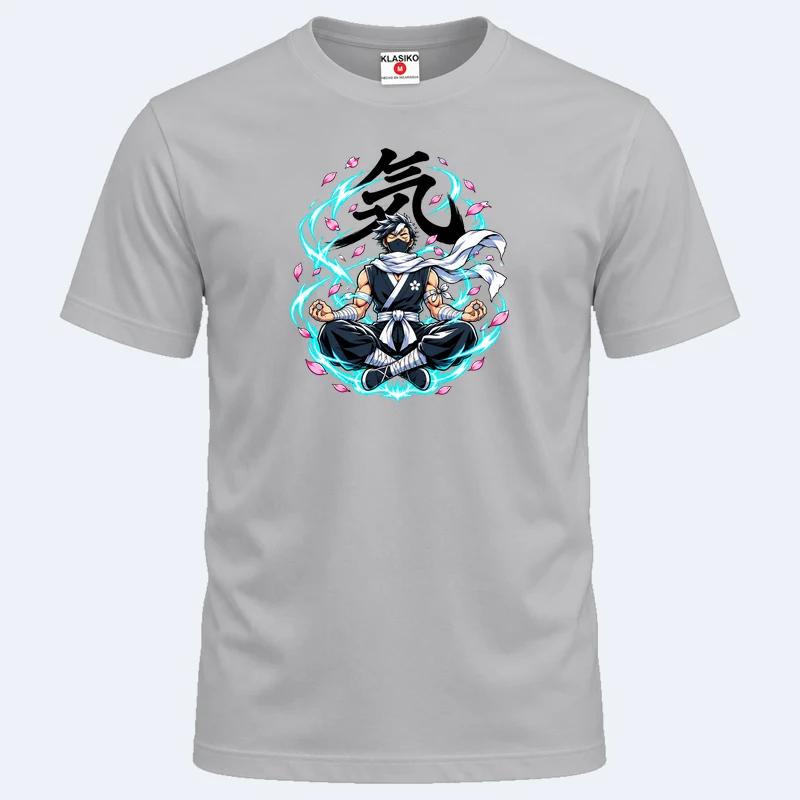
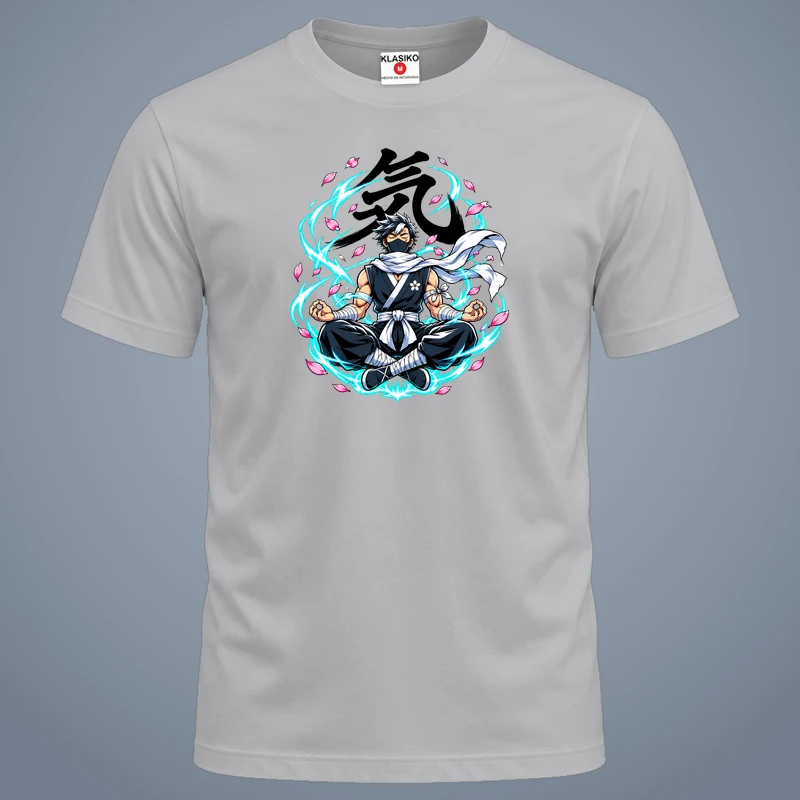
Vista en grande, tienda con talla y Cambiar color, carrusel en el Inicio; sin Galería
- verGrande(): diseños, ventana de diseños del diseñador y productos de la tienda se ven en grande con flechas
- Tienda: 16 camisas de la Galería (Supabase), talla, Cambiar color o diseño; se borraron 3 productos viejos
- Inicio: carrusel de la tienda (avanza solo, se detiene al tocarlo)
- Fotos de productos con fondo gris azulado: la camiseta blanca se distingue
- Se borra galeria.html y su enlace del menú

diff --git a/app.js b/app.js
@@ -5,6 +5,28 @@ const esc=s=>String(s??'').replace(/[&<>"']/g,c=>({'&':'&amp;','<':'&lt;','>':'&
 
 $('#menu')?.addEventListener('click',()=>$('#nav')?.classList.toggle('open')); $$('#nav a').forEach(a=>a.addEventListener('click',()=>$('#nav')?.classList.remove('open')));
 
+/* ---------- Vista en grande (diseños, galería) ----------
+   verGrande(lista, i): lista = [{src, titulo, sub, oscuro, accion:{texto, href | onclick}}] */
+let _vg=null;
+function verGrande(lista,i=0){
+  if(!_vg){_vg=document.createElement('dialog');_vg.className='vg';_vg.setAttribute('aria-label','Vista en grande');
+    _vg.innerHTML='<button type="button" class="vgX" aria-label="Cerrar">×</button><button type="button" class="vgN vgP" aria-label="Anterior">‹</button><figure><div class="vgImg"><img alt=""></div><figcaption><b></b><span></span></figcaption></figure><button type="button" class="vgN vgS" aria-label="Siguiente">›</button><div class="vgAcc"><button type="button" class="btn ghost vgFondo">◐ Cambiar fondo</button><a class="btn vgBtn"></a></div>';
+    document.body.appendChild(_vg);
+    _vg.querySelector('.vgX').onclick=()=>_vg.close();
+    _vg.addEventListener('click',e=>{if(e.target===_vg)_vg.close()});
+    _vg.querySelector('.vgFondo').onclick=()=>_vg.classList.toggle('claro');
+    _vg.querySelector('.vgP').onclick=()=>_vg._ir(-1);_vg.querySelector('.vgS').onclick=()=>_vg._ir(1);
+    _vg.addEventListener('keydown',e=>{if(e.key==='ArrowLeft')_vg._ir(-1);if(e.key==='ArrowRight')_vg._ir(1)});
+    let x0=null;_vg.addEventListener('touchstart',e=>x0=e.touches[0].clientX,{passive:true});
+    _vg.addEventListener('touchend',e=>{if(x0==null)return;const dx=e.changedTouches[0].clientX-x0;if(Math.abs(dx)>50)_vg._ir(dx<0?1:-1);x0=null})}
+  const pintar=()=>{const it=lista[i],img=_vg.querySelector('img'),a=_vg.querySelector('.vgBtn');img.src=it.src;img.alt=it.titulo||'';
+    _vg.querySelector('figcaption b').textContent=it.titulo||'';_vg.querySelector('figcaption span').textContent=it.sub||'';
+    _vg.classList.toggle('foto',!it.oscuro&&it.oscuro!==undefined);_vg.querySelector('.vgFondo').hidden=it.oscuro===false;
+    a.hidden=!it.accion;if(it.accion){a.textContent=it.accion.texto;if(it.accion.href){a.href=it.accion.href;a.onclick=null}else{a.removeAttribute('href');a.onclick=()=>{_vg.close();it.accion.onclick()}}}
+    $$('.vgN').forEach(b=>b.hidden=lista.length<2)};
+  _vg._ir=d=>{i=(i+d+lista.length)%lista.length;pintar()};
+  pintar();if(!_vg.open)_vg.showModal()}
+
 /* ---------- Supabase (REST, sin librería) ---------- */
 const sbReady=()=>CFG.supabaseUrl&&CFG.supabaseKey;
 // clave sb_publishable_ va solo en apikey; una clave anon antigua (JWT) también en Authorization
@@ -20,9 +42,27 @@ function addItem(item){const c=getCart();c.push(item);return setCart(c)}
 updateCount();
 
 /* ---------- Tienda (productos desde Supabase; si falla, quedan los del HTML) ---------- */
-document.addEventListener('click',e=>{const b=e.target.closest('.cart');if(!b)return;if(addItem({nombre:b.dataset.name,detalle:b.dataset.detail||'',qty:1,precio:+b.dataset.price}))$('#cartStatus').innerHTML=`Agregado a tu pedido. <a href="pedido.html"><u>Ver mi pedido</u></a>`});
-(async()=>{const box=$('.realProducts');if(!box)return;const rows=await sbGet('productos?select=nombre,detalle,precio,foto_url&activo=eq.true&order=orden,created_at');if(!rows?.length)return;
-  box.innerHTML=rows.map(p=>`<article><img src="${esc(p.foto_url)}" alt="${esc(p.nombre)}" loading="lazy"><h3>${esc(p.nombre)}</h3><p>${esc(p.detalle)}</p><strong>${money(p.precio)}</strong><button class="btn cart" data-name="${esc(p.nombre)}" data-detail="${esc(p.detalle)}" data-price="${+p.precio}">Agregar al carrito</button></article>`).join('')})();
+document.addEventListener('click',e=>{const b=e.target.closest('.cart');if(!b)return;const t=b.closest('article')?.querySelector('.tallaSel')?.value;
+  if(addItem({nombre:b.dataset.name,detalle:(b.dataset.detail||'')+(t?` • talla ${t}`:''),qty:1,precio:+b.dataset.price,vista:b.dataset.foto||undefined}))$('#cartStatus').innerHTML=`Agregado a tu pedido${t?` (talla ${esc(t)})`:''}. <a href="pedido.html"><u>Ver mi pedido</u></a>`});
+const TALLAS_TIENDA=['XS','S','M','L','XL','2XL','3XL'];
+const productos=sbGet('productos?select=nombre,detalle,precio,foto_url,enlace&activo=eq.true&order=orden,created_at');
+const aGrande=rows=>rows.map(p=>({src:p.foto_url,titulo:p.nombre,sub:`${p.detalle} · ${money(p.precio)}`,oscuro:false,accion:p.enlace?{texto:'Cambiar color o diseño',href:p.enlace}:{texto:'Ver en la tienda',href:'tienda.html'}}));
+(async()=>{const box=$('.realProducts');if(!box)return;const rows=await productos;if(!rows?.length){box.innerHTML='<p class="status">Pronto agregaremos productos. Mientras tanto, <a href="disena.html"><u>diseña tu camisa</u></a>.</p>';return}
+  box.innerHTML=rows.map((p,i)=>`<article><button type="button" class="zoom" data-i="${i}" aria-label="Ver ${esc(p.nombre)} en grande"><img src="${esc(p.foto_url)}" alt="${esc(p.nombre)}" loading="lazy"></button><h3>${esc(p.nombre)}</h3><p>${esc(p.detalle)}</p><strong>${money(p.precio)}</strong>
+    <label class="tallaLbl">Talla <select class="tallaSel">${TALLAS_TIENDA.map(t=>`<option${t==='M'?' selected':''}>${t}</option>`).join('')}</select></label>
+    <button class="btn cart" data-name="${esc(p.nombre)}" data-detail="${esc(p.detalle)}" data-price="${+p.precio}" data-foto="${esc(p.foto_url)}">Agregar al carrito</button>${p.enlace?`<a class="btn ghost cambiar" href="${esc(p.enlace)}">Cambiar color o diseño</a>`:''}</article>`).join('');
+  const lista=aGrande(rows);lista.forEach(it=>it.accion=it.accion.href==='tienda.html'?null:it.accion);
+  box.addEventListener('click',e=>{const z=e.target.closest('.zoom');if(z)verGrande(lista,+z.dataset.i)})})();
+/* ---------- Carrusel de la tienda en el Inicio ---------- */
+(async()=>{const box=$('#carrusel');if(!box)return;const rows=await productos;if(!rows?.length){box.closest('section').hidden=true;return}
+  const pista=box.querySelector('.pista');pista.innerHTML=rows.map((p,i)=>`<article class="slide"><button type="button" class="zoom" data-i="${i}" aria-label="Ver ${esc(p.nombre)} en grande"><img src="${esc(p.foto_url)}" alt="${esc(p.nombre)}" loading="lazy"></button><b>${esc(p.nombre)}</b><span>${esc(p.detalle.split(' • ')[0])}</span><strong>${money(p.precio)}</strong></article>`).join('');
+  const lista=aGrande(rows);pista.addEventListener('click',e=>{const z=e.target.closest('.zoom');if(z)verGrande(lista,+z.dataset.i)});
+  const paso=()=>pista.querySelector('.slide').getBoundingClientRect().width+16;
+  const mover=d=>{const fin=pista.scrollLeft+d*paso();pista.scrollTo({left:fin>pista.scrollWidth-pista.clientWidth+5?0:fin<-5?pista.scrollWidth:fin,behavior:'smooth'})};
+  box.querySelector('.cPrev').onclick=()=>mover(-1);box.querySelector('.cSig').onclick=()=>mover(1);
+  // avanza solo cada 4 s; se detiene mientras el cliente lo toca o pasa el mouse
+  let quieto=false;['pointerenter','focusin','touchstart'].forEach(ev=>box.addEventListener(ev,()=>quieto=true,{passive:true}));['pointerleave','focusout'].forEach(ev=>box.addEventListener(ev,()=>quieto=false));
+  if(!matchMedia('(prefers-reduced-motion: reduce)').matches)setInterval(()=>{if(!quieto&&!document.hidden)mover(1)},4000)})();
 
 /* ---------- Videos del proceso (portada y Nosotros) ---------- */
 function youtubeId(u){const m=String(u).match(/(?:youtu\.be\/|youtube\.com\/(?:watch\?(?:.*&)?v=|shorts\/|embed\/))([\w-]{11})/);return m?.[1]}
@@ -73,7 +113,7 @@ $('#entrega')?.addEventListener('change',e=>{$('#direccionBox').hidden=e.target.
 
 $('#pedidoForm')?.addEventListener('submit',async e=>{e.preventDefault();const f=e.target,btn=f.querySelector('button[type=submit]'),st=$('#pedidoStatus'),c=getCart();if(!c.length)return;
   btn.disabled=true;st.textContent='Enviando…';
-  try{const items=[];for(const it of c){const links=[];if(sbReady()){for(const a of archivosDe(it))links.push(`${a.lado?a.lado+': ':''}${a.codigo?`diseño de catálogo ${a.codigo}`:a.url||await uploadFile(a)}`);if(it.vista)links.push(`Vista: ${await uploadFile({nombre:'vista.jpg',data:it.vista})}`)}
+  try{const items=[];for(const it of c){const links=[];if(sbReady()){for(const a of archivosDe(it))links.push(`${a.lado?a.lado+': ':''}${a.codigo?`diseño de catálogo ${a.codigo}`:a.url||await uploadFile(a)}`);if(it.vista)links.push(`Vista: ${it.vista.startsWith('data:')?await uploadFile({nombre:'vista.jpg',data:it.vista}):new URL(it.vista,location.href).href}`)}
       items.push({nombre:it.nombre,detalle:it.detalle,cantidad:it.qty,precio_unitario:Math.round(it.precio),archivos:links})}
     const total=c.reduce((a,i)=>a+i.precio*i.qty,0),row={tipo:'pedido',nombre:field(f,'nombre'),telefono:field(f,'telefono'),correo:field(f,'correo')||null,entrega:field(f,'entrega'),direccion:field(f,'direccion')||null,notas:field(f,'notas')||null,items,total_estimado:Math.round(total)};
     await saveRecord(row);

diff --git a/index.html b/index.html
@@ -69,6 +69,20 @@ body{font-family:Inter,Arial,sans-serif}
 .perksBar div{display:flex;align-items:center;gap:14px;justify-content:center;font-weight:800;font-size:13px;text-transform:uppercase;line-height:1.3}
 .perksBar div+div{border-left:1px solid #1d3a5a}
 .perksBar svg{width:46px;height:46px;color:var(--azul2);flex:none}
+.tiendaHome{background:#081a2e;padding:44px 4% 40px}
+.tHead{max-width:1240px;margin:0 auto 18px;display:flex;justify-content:space-between;align-items:end;gap:14px;flex-wrap:wrap}
+.tHead h2{font-size:clamp(34px,4vw,52px);margin:4px 0 0;color:#fff}
+.carrusel{position:relative;max-width:1240px;margin:auto}
+.pista{display:flex;gap:16px;overflow-x:auto;scroll-snap-type:x mandatory;scroll-behavior:smooth;padding:4px 2px 12px;scrollbar-width:none}
+.pista::-webkit-scrollbar{display:none}
+.slide{flex:0 0 calc((100% - 48px)/4);scroll-snap-align:start;background:#0b2037;border:1px solid #1d4d77;border-radius:16px;padding:10px 10px 14px;display:flex;flex-direction:column;gap:4px}
+.slide .zoom,.realProducts .zoom{all:unset;cursor:zoom-in;display:block;border-radius:12px;overflow:hidden}
+.slide img{width:100%;aspect-ratio:1;object-fit:cover;background:#eef2f7;transition:transform .3s}.slide .zoom:hover img{transform:scale(1.04)}
+.slide b{font-size:15px;margin-top:6px}.slide span{font-size:12px;color:#9fc0da}.slide strong{color:#37aefe;font-size:18px}
+.cNav{position:absolute;top:38%;z-index:2;width:44px;height:44px;border-radius:50%;border:0;background:#1f78ff;color:#fff;font-size:28px;line-height:1;cursor:pointer;box-shadow:0 6px 18px #0008}
+.cPrev{left:-14px}.cSig{right:-14px}
+@media(max-width:900px){.slide{flex-basis:calc((100% - 16px)/2)}}
+@media(max-width:520px){.slide{flex-basis:78%}.cNav{display:none}}
 @media(max-width:1100px){.quote{display:none}.svcGrid,.vids{grid-template-columns:repeat(2,1fr)}.banners{grid-template-columns:1fr}.perksBar{grid-template-columns:repeat(3,1fr);row-gap:22px}.perksBar div:nth-child(4){border-left:0}}
 @media(max-width:900px){.hero2{grid-template-columns:1fr;padding:34px 5% 0;min-height:0}.hero2 .txt{padding-bottom:0}.hero2 .pic{margin:0 -6%}.hero2 .pic img{-webkit-mask-image:linear-gradient(180deg,transparent 0,#000 18%);mask-image:linear-gradient(180deg,transparent 0,#000 18%);height:auto}}
 @media(max-width:600px){.svcGrid{gap:10px}.svcCard .body{grid-template-columns:1fr;padding:12px}.ico2{display:none}.svcCard h3{font-size:14px}.svcCard p{font-size:12px}.svcCard .more{grid-column:1;padding:7px 14px}.ban{grid-template-columns:1fr;padding:28px 20px 0}.ban img{height:240px;object-fit:contain}.vids{gap:10px}.vid span{font-size:12px;padding:20px 10px 8px}.perksBar{grid-template-columns:1fr 1fr}.perksBar div{justify-content:flex-start;border-left:0!important}.perksBar svg{width:36px;height:36px}.hero2 .acts .btnA{flex:1;justify-content:center;padding:13px 12px;font-size:14px;white-space:nowrap}}
@@ -78,7 +92,7 @@ body{font-family:Inter,Arial,sans-serif}
 <header>
   <a class="brand" href="index.html"><span>IM</span>PRESA<small>PRINT & TEXTILE SOLUTIONS</small></a>
   <button id="menu" aria-label="Abrir menú">☰</button>
-  <nav id="nav"><a href="index.html">Inicio</a><a href="servicios.html">Servicios</a><a href="disena.html">Diseña tu camisa</a><a href="disenos.html">Diseños</a><a href="catalogo.html">Catálogo</a><a href="tienda.html">Tienda</a><a href="galeria.html">Galería</a><a href="nosotros.html">Nosotros</a><a href="contacto.html">Contacto</a><a href="puntos.html">Puntos de entrega</a><a href="pedido.html">Mi pedido <b id="cartCount"></b></a></nav>
+  <nav id="nav"><a href="index.html">Inicio</a><a href="servicios.html">Servicios</a><a href="disena.html">Diseña tu camisa</a><a href="disenos.html">Diseños</a><a href="catalogo.html">Catálogo</a><a href="tienda.html">Tienda</a><a href="nosotros.html">Nosotros</a><a href="contacto.html">Contacto</a><a href="puntos.html">Puntos de entrega</a><a href="pedido.html">Mi pedido <b id="cartCount"></b></a></nav>
   <a class="btnA quote" href="contacto.html">Solicitar cotización</a>
 </header>
 
@@ -94,6 +108,10 @@ body{font-family:Inter,Arial,sans-serif}
     </div>
   </div>
   <figure class="pic"><img src="assets/portada/hero.webp" alt="Camisetas, polo, gorra y termo con el logo de IMPRESA" width="1278" height="716" fetchpriority="high"></figure>
+</section>
+
+<section class="tiendaHome" aria-labelledby="t-tienda"><div class="tHead"><div><p class="eyebrow">TIENDA IMPRESA</p><h2 id="t-tienda" class="disp">Listas para llevar</h2></div><a class="btnA" href="tienda.html">Ver toda la tienda →</a></div>
+  <div id="carrusel" class="carrusel" role="region" aria-roledescription="carrusel" aria-label="Productos de la tienda"><button type="button" class="cNav cPrev" aria-label="Anterior">‹</button><div class="pista" tabindex="0"></div><button type="button" class="cNav cSig" aria-label="Siguiente">›</button></div>
 </section>
 
 <section class="svcWrap" aria-label="Servicios">

diff --git a/disenos.html b/disenos.html
@@ -15,7 +15,7 @@
 .cat h2{font-family:'Barlow Condensed',Impact,sans-serif;font-style:italic;font-weight:900;text-transform:uppercase;font-size:clamp(32px,4vw,48px);margin:0 0 14px;color:#0a1b30;letter-spacing:0;border-bottom:3px solid #1f78ff;padding-bottom:8px}
 .grid{display:grid;grid-template-columns:repeat(auto-fill,minmax(200px,1fr));gap:16px}
 .d{background:#fff;border-radius:14px;padding:10px 10px 14px;display:flex;flex-direction:column;gap:4px;box-shadow:0 8px 22px #0614261a}
-.d .pv{aspect-ratio:1;border-radius:10px;display:grid;place-items:center;padding:12px;background:#151515}
+.d .pv{cursor:zoom-in;aspect-ratio:1;border-radius:10px;display:grid;place-items:center;padding:12px;background:#151515}
 .d .pv img{max-width:100%;max-height:100%;object-fit:contain}
 .d.claro .pv{background:repeating-conic-gradient(#f1f3f6 0 25%,#fff 0 50%) 0 0/20px 20px}
 .d .cod{font-family:'Barlow Condensed',Impact,sans-serif;font-style:italic;font-weight:900;color:#1f78ff;font-size:20px;line-height:1;margin-top:6px}
@@ -28,7 +28,7 @@
 </style>
 </head>
 <body>
-<header><a class="brand" href="index.html"><span>IM</span>PRESA<small>PRINT & TEXTILE SOLUTIONS</small></a><button id="menu" aria-label="Abrir menú">☰</button><nav id="nav"><a href="index.html">Inicio</a><a href="servicios.html">Servicios</a><a href="disena.html">Diseña tu camisa</a><a href="disenos.html">Diseños</a><a href="catalogo.html">Catálogo</a><a href="tienda.html">Tienda</a><a href="galeria.html">Galería</a><a href="nosotros.html">Nosotros</a><a href="contacto.html">Contacto</a><a href="puntos.html">Puntos de entrega</a><a href="pedido.html">Mi pedido <b id="cartCount"></b></a></nav></header>
+<header><a class="brand" href="index.html"><span>IM</span>PRESA<small>PRINT & TEXTILE SOLUTIONS</small></a><button id="menu" aria-label="Abrir menú">☰</button><nav id="nav"><a href="index.html">Inicio</a><a href="servicios.html">Servicios</a><a href="disena.html">Diseña tu camisa</a><a href="disenos.html">Diseños</a><a href="catalogo.html">Catálogo</a><a href="tienda.html">Tienda</a><a href="nosotros.html">Nosotros</a><a href="contacto.html">Contacto</a><a href="puntos.html">Puntos de entrega</a><a href="pedido.html">Mi pedido <b id="cartCount"></b></a></nav></header>
 <main>
 <section class="pageHero"><p class="eyebrow">DISEÑOS LISTOS</p><h1>Elige tu diseño</h1><p>Toca «Usar este diseño» y míralo en tu camiseta del color que quieras.</p></section>
 <section class="dis">
@@ -45,13 +45,14 @@ const rows=await sbGet('disenos?select=codigo,nombre,categoria,preview_url&activ
 const box=$('#cats');
 if(!rows.length){box.innerHTML='<p class="status">Pronto publicaremos diseños. Mientras tanto, sube el tuyo en <a href="disena.html"><u>Diseña tu camisa</u></a>.</p>';return}
 const cats=[...new Set(rows.map(r=>r.categoria))];let actual='Todos';
+const lista=rows.map(r=>({src:r.preview_url,titulo:`${r.codigo} · ${r.nombre}`,sub:r.categoria,oscuro:true,accion:{texto:'Usar este diseño',href:`disena.html?diseno=${encodeURIComponent(r.preview_url)}&dn=${encodeURIComponent(r.codigo)}`}}));
 function pintar(){box.innerHTML='';for(const c of cats){if(actual!=='Todos'&&c!==actual)continue;
   const sec=document.createElement('section');sec.className='cat';const h=document.createElement('h2');h.textContent=c;const g=document.createElement('div');g.className='grid';sec.append(h,g);
   for(const r of rows.filter(r=>r.categoria===c)){const d=document.createElement('article');d.className='d';
     d.innerHTML=`<div class="pv"><img loading="lazy" alt=""></div><span class="cod"></span><b></b><div class="acc"><a>Usar este diseño</a><button type="button" title="Ver sobre fondo claro" aria-label="Cambiar fondo de la vista">◐</button></div>`;
     d.querySelector('img').src=r.preview_url;d.querySelector('img').alt=r.nombre;d.querySelector('.cod').textContent=r.codigo;d.querySelector('b').textContent=r.nombre;
     d.querySelector('a').href=`disena.html?diseno=${encodeURIComponent(r.preview_url)}&dn=${encodeURIComponent(r.codigo)}`;
-    d.querySelector('button').onclick=()=>d.classList.toggle('claro');g.append(d)}
+    d.querySelector('button').onclick=()=>d.classList.toggle('claro');d.querySelector('.pv').onclick=()=>verGrande(lista,rows.indexOf(r));d.querySelector('.pv').setAttribute('role','button');d.querySelector('.pv').tabIndex=0;g.append(d)}
   box.append(sec)}}
 $('#chips').innerHTML=['Todos',...cats].map(c=>`<button type="button" class="${c==='Todos'?'on':''}">${esc(c)}</button>`).join('');
 $$('#chips button').forEach(b=>b.onclick=()=>{actual=b.textContent;$$('#chips button').forEach(x=>x.classList.toggle('on',x===b));pintar()});

diff --git a/nosotros.html b/nosotros.html
@@ -1,1 +1,1 @@
-<!doctype html><html lang="es"><head><meta charset="UTF-8"><meta name="viewport" content="width=device-width,initial-scale=1"><meta name="theme-color" content="#061426"><title>Nosotros | IMPRESA</title><link rel="stylesheet" href="styles.css"></head><body><header><a class="brand" href="index.html"><span>IM</span>PRESA<small>PRINT & TEXTILE SOLUTIONS</small></a><button id="menu" aria-label="Abrir menú">☰</button><nav id="nav"><a href="index.html">Inicio</a><a href="servicios.html">Servicios</a><a href="disena.html">Diseña tu camisa</a><a href="disenos.html">Diseños</a><a href="catalogo.html">Catálogo</a><a href="tienda.html">Tienda</a><a href="galeria.html">Galería</a><a href="nosotros.html">Nosotros</a><a href="contacto.html">Contacto</a><a href="puntos.html">Puntos de entrega</a><a href="pedido.html">Mi pedido <b id="cartCount"></b></a></nav></header><main><section class="pageHero"><p class="eyebrow">NOSOTROS</p><h1>IMPRESA</h1><p>Diseño y producción para convertir ideas en productos terminados.</p></section><section class="about standalone"><div><h2>De una idea a algo que puedes vestir</h2><p>IMPRESA combina diseño, bordado, impresión y producción textil para clientes y empresas en Nicaragua.</p><div class="stats"><b>6<span>Servicios</span></b><b>360°<span>Diseño interactivo</span></b><b>24/7<span>Web</span></b></div></div><div class="process" id="proceso"><h3>Nuestro proceso</h3><button class="video" data-title="Diseño y preparación">▶ Diseño y preparación</button><button class="video" data-title="Producción IMPRESA">▶ Producción</button><button class="video" data-title="Acabado y entrega">▶ Acabado y entrega</button></div></section></main><dialog id="videoModal"><button id="closeModal" aria-label="Cerrar">✕</button><div class="videoBox">▶</div><h3 id="videoTitle">Proceso IMPRESA</h3><p id="videoNote">Pronto verás aquí el video real de IMPRESA. Mientras tanto, escríbenos por WhatsApp y te mostramos trabajos recientes.</p></dialog><footer><b>IMPRESA</b><span>Print & Textile Solutions</span><small>Nicaragua</small></footer><script src="config.js"></script><script src="app.js"></script></body></html>
+<!doctype html><html lang="es"><head><meta charset="UTF-8"><meta name="viewport" content="width=device-width,initial-scale=1"><meta name="theme-color" content="#061426"><title>Nosotros | IMPRESA</title><link rel="stylesheet" href="styles.css"></head><body><header><a class="brand" href="index.html"><span>IM</span>PRESA<small>PRINT & TEXTILE SOLUTIONS</small></a><button id="menu" aria-label="Abrir menú">☰</button><nav id="nav"><a href="index.html">Inicio</a><a href="servicios.html">Servicios</a><a href="disena.html">Diseña tu camisa</a><a href="disenos.html">Diseños</a><a href="catalogo.html">Catálogo</a><a href="tienda.html">Tienda</a><a href="nosotros.html">Nosotros</a><a href="contacto.html">Contacto</a><a href="puntos.html">Puntos de entrega</a><a href="pedido.html">Mi pedido <b id="cartCount"></b></a></nav></header><main><section class="pageHero"><p class="eyebrow">NOSOTROS</p><h1>IMPRESA</h1><p>Diseño y producción para convertir ideas en productos terminados.</p></section><section class="about standalone"><div><h2>De una idea a algo que puedes vestir</h2><p>IMPRESA combina diseño, bordado, impresión y producción textil para clientes y empresas en Nicaragua.</p><div class="stats"><b>6<span>Servicios</span></b><b>360°<span>Diseño interactivo</span></b><b>24/7<span>Web</span></b></div></div><div class="process" id="proceso"><h3>Nuestro proceso</h3><button class="video" data-title="Diseño y preparación">▶ Diseño y preparación</button><button class="video" data-title="Producción IMPRESA">▶ Producción</button><button class="video" data-title="Acabado y entrega">▶ Acabado y entrega</button></div></section></main><dialog id="videoModal"><button id="closeModal" aria-label="Cerrar">✕</button><div class="videoBox">▶</div><h3 id="videoTitle">Proceso IMPRESA</h3><p id="videoNote">Pronto verás aquí el video real de IMPRESA. Mientras tanto, escríbenos por WhatsApp y te mostramos trabajos recientes.</p></dialog><footer><b>IMPRESA</b><span>Print & Textile Solutions</span><small>Nicaragua</small></footer><script src="config.js"></script><script src="app.js"></script></body></html>

diff --git a/contacto.html b/contacto.html
@@ -1,1 +1,1 @@
-<!doctype html><html lang="es"><head><meta charset="UTF-8"><meta name="viewport" content="width=device-width,initial-scale=1"><meta name="theme-color" content="#061426"><title>Contacto | IMPRESA</title><link rel="stylesheet" href="styles.css"></head><body><header><a class="brand" href="index.html"><span>IM</span>PRESA<small>PRINT & TEXTILE SOLUTIONS</small></a><button id="menu" aria-label="Abrir menú">☰</button><nav id="nav"><a href="index.html">Inicio</a><a href="servicios.html">Servicios</a><a href="disena.html">Diseña tu camisa</a><a href="disenos.html">Diseños</a><a href="catalogo.html">Catálogo</a><a href="tienda.html">Tienda</a><a href="galeria.html">Galería</a><a href="nosotros.html">Nosotros</a><a href="contacto.html">Contacto</a><a href="puntos.html">Puntos de entrega</a><a href="pedido.html">Mi pedido <b id="cartCount"></b></a></nav></header><main><section class="pageHero"><p class="eyebrow">CONTACTO</p><h1>¿Qué quieres crear?</h1><p>Cuéntanos tu idea y prepara tu próxima orden.</p></section><section class="contactPage"><form class="contactForm" id="contactForm"><label>Nombre<input name="nombre" required autocomplete="name" placeholder="Tu nombre"></label><label>Teléfono / WhatsApp<input name="telefono" required type="tel" autocomplete="tel" placeholder="8888 8888"></label><label>Correo (opcional)<input name="correo" type="email" autocomplete="email" placeholder="correo@ejemplo.com"></label><label>¿Qué necesitas?<textarea name="mensaje" required placeholder="Cuéntanos sobre tu pedido"></textarea></label><button type="submit" class="btn">Solicitar cotización</button></form><p id="contactStatus" class="status" role="status"></p></section></main><footer><b>IMPRESA</b><span>Print & Textile Solutions</span><small>Nicaragua</small></footer><script src="config.js"></script><script src="app.js"></script></body></html>
+<!doctype html><html lang="es"><head><meta charset="UTF-8"><meta name="viewport" content="width=device-width,initial-scale=1"><meta name="theme-color" content="#061426"><title>Contacto | IMPRESA</title><link rel="stylesheet" href="styles.css"></head><body><header><a class="brand" href="index.html"><span>IM</span>PRESA<small>PRINT & TEXTILE SOLUTIONS</small></a><button id="menu" aria-label="Abrir menú">☰</button><nav id="nav"><a href="index.html">Inicio</a><a href="servicios.html">Servicios</a><a href="disena.html">Diseña tu camisa</a><a href="disenos.html">Diseños</a><a href="catalogo.html">Catálogo</a><a href="tienda.html">Tienda</a><a href="nosotros.html">Nosotros</a><a href="contacto.html">Contacto</a><a href="puntos.html">Puntos de entrega</a><a href="pedido.html">Mi pedido <b id="cartCount"></b></a></nav></header><main><section class="pageHero"><p class="eyebrow">CONTACTO</p><h1>¿Qué quieres crear?</h1><p>Cuéntanos tu idea y prepara tu próxima orden.</p></section><section class="contactPage"><form class="contactForm" id="contactForm"><label>Nombre<input name="nombre" required autocomplete="name" placeholder="Tu nombre"></label><label>Teléfono / WhatsApp<input name="telefono" required type="tel" autocomplete="tel" placeholder="8888 8888"></label><label>Correo (opcional)<input name="correo" type="email" autocomplete="email" placeholder="correo@ejemplo.com"></label><label>¿Qué necesitas?<textarea name="mensaje" required placeholder="Cuéntanos sobre tu pedido"></textarea></label><button type="submit" class="btn">Solicitar cotización</button></form><p id="contactStatus" class="status" role="status"></p></section></main><footer><b>IMPRESA</b><span>Print & Textile Solutions</span><small>Nicaragua</small></footer><script src="config.js"></script><script src="app.js"></script></body></html>

diff --git a/tienda.html b/tienda.html
@@ -1,1 +1,1 @@
-<!doctype html><html lang="es"><head><meta charset="UTF-8"><meta name="viewport" content="width=device-width,initial-scale=1"><meta name="theme-color" content="#061426"><title>Tienda | IMPRESA</title><link rel="stylesheet" href="styles.css"></head><body><header><a class="brand" href="index.html"><span>IM</span>PRESA<small>PRINT & TEXTILE SOLUTIONS</small></a><button id="menu" aria-label="Abrir menú">☰</button><nav id="nav"><a href="index.html">Inicio</a><a href="servicios.html">Servicios</a><a href="disena.html">Diseña tu camisa</a><a href="disenos.html">Diseños</a><a href="catalogo.html">Catálogo</a><a href="tienda.html">Tienda</a><a href="galeria.html">Galería</a><a href="nosotros.html">Nosotros</a><a href="contacto.html">Contacto</a><a href="puntos.html">Puntos de entrega</a><a href="pedido.html">Mi pedido <b id="cartCount"></b></a></nav></header><main><section class="pageHero"><p class="eyebrow">TIENDA IMPRESA</p><h1>Productos listos</h1><p>Productos terminados con precio fijo.</p></section><section><div class="products realProducts"><article><img src="https://images.unsplash.com/photo-1521572163474-6864f9cf17ab?auto=format&fit=crop&q=90&w=900" alt="Camiseta IMPRESA de algodón"><h3>Camiseta IMPRESA</h3><p>Algodón • Unisex</p><strong>C$ 450</strong><button class="btn cart" data-name="Camiseta IMPRESA" data-detail="Algodón • Unisex" data-price="450">Agregar al carrito</button></article><article><img src="https://images.unsplash.com/photo-1503341504253-dff4815485f1?auto=format&fit=crop&q=90&w=900" alt="Camiseta gráfica"><h3>Camiseta gráfica</h3><p>Diseño fijo • DTF</p><strong>C$ 500</strong><button class="btn cart" data-name="Camiseta gráfica" data-detail="Diseño fijo • DTF" data-price="500">Agregar al carrito</button></article><article><img src="assets/portada/polo.webp" alt="Polo blanco con logo bordado"><h3>Polo bordado</h3><p>Logo frontal incluido</p><strong>C$ 750</strong><button class="btn cart" data-name="Polo bordado" data-detail="Logo frontal incluido" data-price="750">Agregar al carrito</button></article></div><p id="cartStatus" class="status" role="status"></p></section></main><footer><b>IMPRESA</b><span>Print & Textile Solutions</span><small>Nicaragua</small></footer><script src="config.js"></script><script src="app.js"></script></body></html>
+<!doctype html><html lang="es"><head><meta charset="UTF-8"><meta name="viewport" content="width=device-width,initial-scale=1"><meta name="theme-color" content="#061426"><title>Tienda | IMPRESA</title><link rel="stylesheet" href="styles.css"></head><body><header><a class="brand" href="index.html"><span>IM</span>PRESA<small>PRINT & TEXTILE SOLUTIONS</small></a><button id="menu" aria-label="Abrir menú">☰</button><nav id="nav"><a href="index.html">Inicio</a><a href="servicios.html">Servicios</a><a href="disena.html">Diseña tu camisa</a><a href="disenos.html">Diseños</a><a href="catalogo.html">Catálogo</a><a href="tienda.html">Tienda</a><a href="nosotros.html">Nosotros</a><a href="contacto.html">Contacto</a><a href="puntos.html">Puntos de entrega</a><a href="pedido.html">Mi pedido <b id="cartCount"></b></a></nav></header><main><section class="pageHero"><p class="eyebrow">TIENDA IMPRESA</p><h1>Productos listos</h1><p>Productos terminados con precio fijo.</p></section><section><div class="products realProducts"><p class="status">Cargando productos…</p></div><p id="cartStatus" class="status" role="status"></p></section></main><footer><b>IMPRESA</b><span>Print & Textile Solutions</span><small>Nicaragua</small></footer><script src="config.js"></script><script src="app.js"></script></body></html>

diff --git a/servicios.html b/servicios.html
@@ -1,4 +1,4 @@
-<!doctype html><html lang="es"><head><meta charset="UTF-8"><meta name="viewport" content="width=device-width,initial-scale=1"><meta name="theme-color" content="#061426"><title>Servicios | IMPRESA</title><link rel="stylesheet" href="styles.css"></head><body><header><a class="brand" href="index.html"><span>IM</span>PRESA<small>PRINT & TEXTILE SOLUTIONS</small></a><button id="menu" aria-label="Abrir menú">☰</button><nav id="nav"><a href="index.html">Inicio</a><a href="servicios.html">Servicios</a><a href="disena.html">Diseña tu camisa</a><a href="disenos.html">Diseños</a><a href="catalogo.html">Catálogo</a><a href="tienda.html">Tienda</a><a href="galeria.html">Galería</a><a href="nosotros.html">Nosotros</a><a href="contacto.html">Contacto</a><a href="puntos.html">Puntos de entrega</a><a href="pedido.html">Mi pedido <b id="cartCount"></b></a></nav></header><main><section class="pageHero"><p class="eyebrow">IMPRESA</p><h1>Servicios</h1><p>Producción textil, impresión y soluciones visuales.</p></section><section class="serviceRows">
+<!doctype html><html lang="es"><head><meta charset="UTF-8"><meta name="viewport" content="width=device-width,initial-scale=1"><meta name="theme-color" content="#061426"><title>Servicios | IMPRESA</title><link rel="stylesheet" href="styles.css"></head><body><header><a class="brand" href="index.html"><span>IM</span>PRESA<small>PRINT & TEXTILE SOLUTIONS</small></a><button id="menu" aria-label="Abrir menú">☰</button><nav id="nav"><a href="index.html">Inicio</a><a href="servicios.html">Servicios</a><a href="disena.html">Diseña tu camisa</a><a href="disenos.html">Diseños</a><a href="catalogo.html">Catálogo</a><a href="tienda.html">Tienda</a><a href="nosotros.html">Nosotros</a><a href="contacto.html">Contacto</a><a href="puntos.html">Puntos de entrega</a><a href="pedido.html">Mi pedido <b id="cartCount"></b></a></nav></header><main><section class="pageHero"><p class="eyebrow">IMPRESA</p><h1>Servicios</h1><p>Producción textil, impresión y soluciones visuales.</p></section><section class="serviceRows">
 <article id="bordado"><img src="https://images.unsplash.com/photo-1610030469983-98e550d6193c?auto=format&fit=crop&q=88&w=1200" alt="Bordado en tela" loading="lazy"><div><span class="pill">BORDADO</span><h2>Bordado profesional</h2><p>Logos, uniformes, gorras y prendas con acabado duradero.</p></div></article>
 <article id="dtf"><img src="https://images.unsplash.com/photo-1521572163474-6864f9cf17ab?auto=format&fit=crop&q=88&w=1200" alt="Camiseta impresa con DTF" loading="lazy"><div><span class="pill">DTF</span><h2>DTF</h2><p>Ideal para artes a color, degradados y detalles finos.</p></div></article>
 <article id="sublimacion"><img src="https://images.unsplash.com/photo-1581655353564-df123a1eb820?auto=format&fit=crop&q=88&w=1200" alt="Prenda sublimada" loading="lazy"><div><span class="pill">SUBLIMACIÓN</span><h2>Sublimación</h2><p>Color integrado en prendas y materiales compatibles.</p></div></article>

diff --git a/pedido.html b/pedido.html
@@ -1,4 +1,4 @@
-<!doctype html><html lang="es"><head><meta charset="UTF-8"><meta name="viewport" content="width=device-width,initial-scale=1"><meta name="theme-color" content="#061426"><title>Mi pedido | IMPRESA</title><link rel="stylesheet" href="styles.css"></head><body><header><a class="brand" href="index.html"><span>IM</span>PRESA<small>PRINT & TEXTILE SOLUTIONS</small></a><button id="menu" aria-label="Abrir menú">☰</button><nav id="nav"><a href="index.html">Inicio</a><a href="servicios.html">Servicios</a><a href="disena.html">Diseña tu camisa</a><a href="disenos.html">Diseños</a><a href="catalogo.html">Catálogo</a><a href="tienda.html">Tienda</a><a href="galeria.html">Galería</a><a href="nosotros.html">Nosotros</a><a href="contacto.html">Contacto</a><a href="puntos.html">Puntos de entrega</a><a href="pedido.html">Mi pedido <b id="cartCount"></b></a></nav></header><main><section class="pageHero"><p class="eyebrow">MI PEDIDO</p><h1>Tu pedido</h1><p>No cobramos en la web: te confirmamos precio, pago y entrega por WhatsApp.</p></section><section class="contactPage">
+<!doctype html><html lang="es"><head><meta charset="UTF-8"><meta name="viewport" content="width=device-width,initial-scale=1"><meta name="theme-color" content="#061426"><title>Mi pedido | IMPRESA</title><link rel="stylesheet" href="styles.css"></head><body><header><a class="brand" href="index.html"><span>IM</span>PRESA<small>PRINT & TEXTILE SOLUTIONS</small></a><button id="menu" aria-label="Abrir menú">☰</button><nav id="nav"><a href="index.html">Inicio</a><a href="servicios.html">Servicios</a><a href="disena.html">Diseña tu camisa</a><a href="disenos.html">Diseños</a><a href="catalogo.html">Catálogo</a><a href="tienda.html">Tienda</a><a href="nosotros.html">Nosotros</a><a href="contacto.html">Contacto</a><a href="puntos.html">Puntos de entrega</a><a href="pedido.html">Mi pedido <b id="cartCount"></b></a></nav></header><main><section class="pageHero"><p class="eyebrow">MI PEDIDO</p><h1>Tu pedido</h1><p>No cobramos en la web: te confirmamos precio, pago y entrega por WhatsApp.</p></section><section class="contactPage">
 <div id="pedidoItems" class="pedidoItems"></div>
 <p id="pedidoVacio" class="status">Tu pedido está vacío. <a href="tienda.html"><u>Ver tienda</u></a> o <a href="disena.html"><u>diseña tu camisa</u></a>.</p>
 <form id="pedidoForm" class="contactForm" hidden>

diff --git a/admin.js b/admin.js
@@ -29,7 +29,7 @@ async function subir(file,carpeta){if(file.size>50*1024*1024)throw new Error('El
 /* ---------- Tablas editables ---------- */
 const TABLAS={
   productos:{orden:'orden',foto:'foto_url',carpeta:'productos',vacio:{nombre:'',detalle:'',precio:0,foto_url:'',orden:99,activo:true},
-    campos:[['nombre','Nombre','text',1],['detalle','Detalle (ej. Algodón • Unisex)','text'],['precio','Precio C$','number',1],['orden','Orden','number'],['activo','Visible en la web','check']]},
+    campos:[['nombre','Nombre','text',1],['detalle','Detalle (ej. Camiseta negra • DTF • diseño D007)','text'],['precio','Precio C$','number',1],['enlace','Enlace «Cambiar color» (opcional, empieza con disena.html?)','text'],['orden','Orden','number'],['activo','Visible en la web','check']]},
   disenos:{orden:'orden',foto:'preview_url',carpeta:'disenos',fotoTxt:'vista',vacio:{codigo:'',nombre:'',categoria:'',preview_url:'',archivo:null,orden:99,activo:true},
     campos:[['codigo','Código (D011)','text',1],['nombre','Nombre','text',1],['categoria','Categoría (ej. Anime)','text',1],['archivo','Archivo de impresión','impresion'],['orden','Orden','number'],['activo','Visible en la web','check']]},
   videos:{orden:'orden',foto:'portada_url',carpeta:'videos',vacio:{titulo:'',portada_url:'',video_url:'',orden:99,activo:true},
@@ -81,7 +81,7 @@ function fila(t,row,i){const def=TABLAS[t],el=document.createElement('article');
   g.onclick=async()=>{const datos={};for(const [k,,tipo,req] of def.campos){if(tipo==='impresion')continue;const c=campos.querySelector(`[name=${k}]`);
       const v=tipo==='check'?c.checked:tipo==='number'?(c.value===''?null:+c.value):c.value.trim();
       if(req&&(v===''||v==null)){msg.className='msg err';msg.textContent=k==='lat'||k==='lng'?'Haz clic en el mapa para ubicar el punto.':'Completa los campos obligatorios.';c.focus?.();return}
-      datos[k]=tipo==='text'||tipo==='video'?(v||(k==='video_url'?null:'')):v}
+      datos[k]=tipo==='text'||tipo==='video'?(v||(k==='video_url'||k==='enlace'?null:'')):v}
     if(def.foto&&!nuevaFoto&&!row[def.foto]){msg.className='msg err';msg.textContent='Falta la foto.';return}
     g.disabled=true;msg.className='msg';msg.textContent='Guardando…';
     try{if(nuevaFoto)datos[def.foto]=await subir(nuevaFoto,def.carpeta);

diff --git a/styles.css b/styles.css
@@ -11,3 +11,19 @@
 @media(max-width:520px){.pedidoVista{width:100%;height:auto;aspect-ratio:1}}
 nav a{white-space:nowrap}
 @media(max-width:1240px){#menu{display:grid;place-items:center}nav{display:none;position:absolute;top:72px;left:3%;right:3%;background:#081a2ef5;padding:15px;border:1px solid #24577f;border-radius:14px;flex-direction:column;gap:4px;box-shadow:0 20px 50px #0008}nav.open{display:flex}nav a{font-size:16px;padding:13px;border-radius:8px}nav a:hover{background:#0d2b49}}
+/* vista en grande */
+.vg{width:min(980px,96vw);max-height:94vh;padding:46px 56px 18px;border:1px solid #1d4d77;border-radius:16px;background:#0b2037;color:#eaf4ff;overflow:hidden}
+.vg::backdrop{background:#020a14e6}
+.vg figure{margin:0;display:grid;gap:10px}
+.vg .vgImg{height:min(70vh,760px);display:grid;place-items:center;border-radius:12px;background:#151515;padding:14px}
+.vg.claro .vgImg{background:repeating-conic-gradient(#e9edf2 0 25%,#fff 0 50%) 0 0/24px 24px}
+.vg.foto .vgImg{background:#eef2f7;padding:0}
+.vg .vgImg img{max-width:100%;max-height:100%;object-fit:contain}
+.vg figcaption{display:flex;gap:10px;align-items:baseline;flex-wrap:wrap}.vg figcaption b{font-size:18px}.vg figcaption span{color:#9fc0da;font-size:13px}
+.vgX{position:absolute;top:8px;right:12px;background:none;border:0;color:#fff;font-size:32px;line-height:1;cursor:pointer}
+.vgN{position:absolute;top:50%;transform:translateY(-50%);width:42px;height:62px;border:0;border-radius:10px;background:#102b47cc;color:#fff;font-size:34px;cursor:pointer}
+.vgP{left:8px}.vgS{right:8px}
+.vgAcc{display:flex;gap:10px;justify-content:flex-end;margin-top:10px;flex-wrap:wrap}.vgAcc .btn{padding:11px 18px}
+@media(max-width:600px){.vg{padding:44px 10px 12px}.vg .vgImg{height:62vh}.vgN{width:34px;height:52px;font-size:28px;top:auto;bottom:70px;transform:none}.vgAcc .btn{flex:1;text-align:center}}
+
+.realProducts .zoom img{transition:transform .3s}.realProducts .zoom:hover img{transform:scale(1.03)}.realProducts .zoom{cursor:zoom-in}.tallaLbl{display:flex;align-items:center;gap:8px;font-size:13px}.tallaLbl select{width:auto;margin:0;padding:8px}.realProducts .cambiar{text-align:center;padding:10px;font-size:13px}

diff --git a/catalogo.html b/catalogo.html
@@ -26,7 +26,7 @@
 </style>
 </head>
 <body>
-<header><a class="brand" href="index.html"><span>IM</span>PRESA<small>PRINT & TEXTILE SOLUTIONS</small></a><button id="menu" aria-label="Abrir menú">☰</button><nav id="nav"><a href="index.html">Inicio</a><a href="servicios.html">Servicios</a><a href="disena.html">Diseña tu camisa</a><a href="disenos.html">Diseños</a><a href="catalogo.html">Catálogo</a><a href="tienda.html">Tienda</a><a href="galeria.html">Galería</a><a href="nosotros.html">Nosotros</a><a href="contacto.html">Contacto</a><a href="puntos.html">Puntos de entrega</a><a href="pedido.html">Mi pedido <b id="cartCount"></b></a></nav></header>
+<header><a class="brand" href="index.html"><span>IM</span>PRESA<small>PRINT & TEXTILE SOLUTIONS</small></a><button id="menu" aria-label="Abrir menú">☰</button><nav id="nav"><a href="index.html">Inicio</a><a href="servicios.html">Servicios</a><a href="disena.html">Diseña tu camisa</a><a href="disenos.html">Diseños</a><a href="catalogo.html">Catálogo</a><a href="tienda.html">Tienda</a><a href="nosotros.html">Nosotros</a><a href="contacto.html">Contacto</a><a href="puntos.html">Puntos de entrega</a><a href="pedido.html">Mi pedido <b id="cartCount"></b></a></nav></header>
 <main>
 <section class="pageHero"><p class="eyebrow">CAMISAS KLASIKO</p><h1>Catálogo de colores</h1><p>Elige el estilo y el color. Con un clic lo llevas al diseñador para poner tu logo.</p></section>
 <section class="cat" aria-labelledby="t-camiseta"><div class="catHead"><h2 id="t-camiseta"><small>Klasiko</small>Camisetas cuello redondo</h2><p>Algodón, unisex. Se personaliza con DTF o bordado en todos los colores.</p></div><div class="grid" data-prenda="camiseta"></div></section>

diff --git a/disena.js b/disena.js
@@ -52,9 +52,10 @@ $('#cerrarDis').addEventListener('click',()=>dlg.close());dlg.addEventListener('
 $('#verDisenos').addEventListener('click',async()=>{dlg.showModal();if(catalogo)return;const g=$('#gridDis');
   catalogo=await sbGet('disenos?select=codigo,nombre,preview_url&activo=eq.true&order=orden,created_at');
   if(!catalogo?.length){catalogo=null;g.innerHTML='<p>No se pudieron cargar los diseños. Cierra e inténtalo de nuevo.</p>';return}g.innerHTML='';
-  for(const r of catalogo){if(!permitido(r.preview_url))continue;const b=document.createElement('button');b.type='button';b.className='dItem';b.innerHTML='<img loading="lazy" alt=""><span></span>';
+  const ok=catalogo.filter(r=>permitido(r.preview_url)),lista=ok.map(r=>({src:r.preview_url,titulo:`${r.codigo} · ${r.nombre}`,oscuro:true,accion:{texto:'Usar en mi camisa',onclick:()=>{dlg.close();usarUrl(r.preview_url,r.codigo)}}}));
+  for(const r of ok){const b=document.createElement('button');b.type='button';b.className='dItem';b.innerHTML='<img loading="lazy" alt=""><span></span>';
     b.querySelector('img').src=r.preview_url;b.querySelector('img').alt=r.nombre;b.querySelector('span').textContent=`${r.codigo} · ${r.nombre}`;
-    b.onclick=()=>{dlg.close();usarUrl(r.preview_url,r.codigo)};g.append(b)}});
+    b.onclick=()=>verGrande(lista,ok.indexOf(r));g.append(b)}});
 function usarArchivo(f,codigo=null){
   if(!/^image\/(png|jpeg|webp|svg\+xml)$/.test(f.type)){alert('Sube una imagen PNG, JPG, WEBP o SVG.');return}
   if(f.size>8e6){alert('La imagen pesa más de 8 MB. Prueba con una más liviana.');return}
